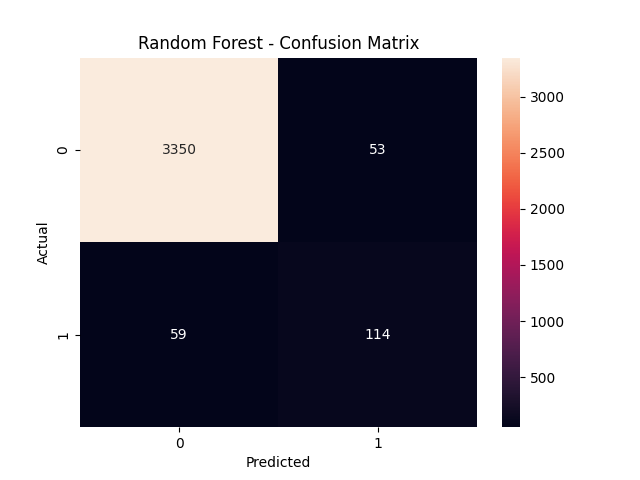
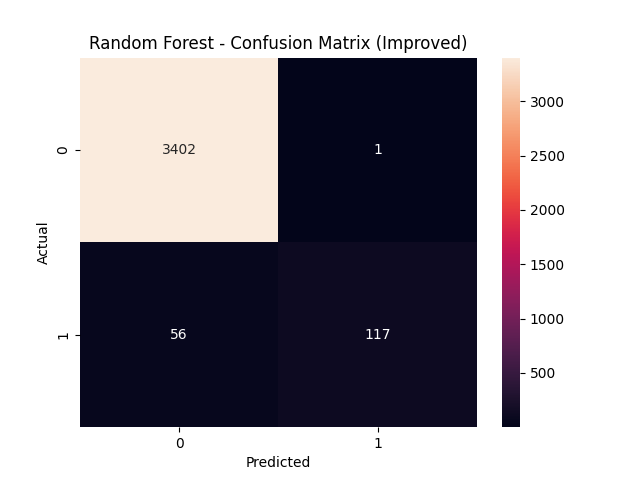
Improved fake detection using SMOTE and class balancing

diff --git a/model/train_model.py b/model/train_model.py
@@ -2,15 +2,14 @@ import matplotlib
 matplotlib.use('Agg')
 
 import pandas as pd
+import numpy as np
 import joblib
 import matplotlib.pyplot as plt
 import seaborn as sns
-import numpy as np
 
 from sklearn.model_selection import train_test_split
 from sklearn.feature_extraction.text import TfidfVectorizer
 from sklearn.ensemble import RandomForestClassifier
-from sklearn.linear_model import LogisticRegression
 from sklearn.metrics import (
     accuracy_score,
     classification_report,
@@ -22,9 +21,14 @@ from sklearn.compose import ColumnTransformer
 from sklearn.preprocessing import StandardScaler
 from sklearn.pipeline import Pipeline
 
+from imblearn.over_sampling import SMOTE
+
 from preprocess import build_text_features, add_meta_features
 
-# Load dataset
+
+# ===============================
+# LOAD DATA
+# ===============================
 df = pd.read_csv("data/raw/fake_job_postings.csv")
 
 df = build_text_features(df)
@@ -33,13 +37,21 @@ df = add_meta_features(df)
 X = df[['combined_text', 'desc_length', 'company_profile_length', 'has_salary']]
 y = df['fraudulent']
 
+# ===============================
+# TRAIN TEST SPLIT
+# ===============================
 X_train, X_test, y_train, y_test = train_test_split(
-    X, y, test_size=0.2, random_state=42, stratify=y
+    X, y,
+    test_size=0.2,
+    random_state=42,
+    stratify=y
 )
 
-# Text vectorizer
+# ===============================
+# PREPROCESSING
+# ===============================
 text_vectorizer = TfidfVectorizer(
-    max_features=15000,
+    max_features=20000,
     ngram_range=(1, 2),
     min_df=3
 )
@@ -49,66 +61,62 @@ preprocessor = ColumnTransformer([
     ('num', StandardScaler(), ['desc_length', 'company_profile_length', 'has_salary'])
 ])
 
-# ----------------------------
+# Fit transform training data
+X_train_transformed = preprocessor.fit_transform(X_train)
+X_test_transformed = preprocessor.transform(X_test)
+
+# ===============================
+# SMOTE FOR IMBALANCE
+# ===============================
+smote = SMOTE(random_state=42)
+X_resampled, y_resampled = smote.fit_resample(X_train_transformed, y_train)
+
+print("After SMOTE class distribution:")
+print(pd.Series(y_resampled).value_counts())
+
+# ===============================
 # RANDOM FOREST MODEL
-# ----------------------------
+# ===============================
 rf_model = RandomForestClassifier(
-    n_estimators=300,
-    max_depth=30,
-    class_weight='balanced',
+    n_estimators=400,
+    max_depth=35,
+    class_weight="balanced",
     random_state=42,
     n_jobs=-1
 )
 
-rf_pipeline = Pipeline([
-    ('preprocess', preprocessor),
-    ('model', rf_model)
-])
+rf_model.fit(X_resampled, y_resampled)
 
-rf_pipeline.fit(X_train, y_train)
-rf_pred = rf_pipeline.predict(X_test)
+rf_pred = rf_model.predict(X_test_transformed)
 
-print("=== RANDOM FOREST RESULTS ===")
+print("\n=== RANDOM FOREST RESULTS (IMPROVED) ===")
 print("Accuracy:", accuracy_score(y_test, rf_pred))
 print(classification_report(y_test, rf_pred))
 
-# Confusion Matrix
+# ===============================
+# CONFUSION MATRIX
+# ===============================
 cm = confusion_matrix(y_test, rf_pred)
+
 plt.figure()
 sns.heatmap(cm, annot=True, fmt='d')
-plt.title("Random Forest - Confusion Matrix")
+plt.title("Random Forest - Confusion Matrix (Improved)")
 plt.xlabel("Predicted")
 plt.ylabel("Actual")
 plt.savefig("static/confusion_matrix.png")
 plt.close()
 
-# ----------------------------
-# LOGISTIC REGRESSION MODEL
-# ----------------------------
-lr_model = LogisticRegression(max_iter=1000)
-
-lr_pipeline = Pipeline([
-    ('preprocess', preprocessor),
-    ('model', lr_model)
-])
-
-lr_pipeline.fit(X_train, y_train)
-lr_pred = lr_pipeline.predict(X_test)
-
-print("\n=== LOGISTIC REGRESSION RESULTS ===")
-print("Accuracy:", accuracy_score(y_test, lr_pred))
-print(classification_report(y_test, lr_pred))
-
-# ----------------------------
+# ===============================
 # ROC CURVE
-# ----------------------------
-rf_probs = rf_pipeline.predict_proba(X_test)[:, 1]
+# ===============================
+rf_probs = rf_model.predict_proba(X_test_transformed)[:, 1]
+
 fpr, tpr, thresholds = roc_curve(y_test, rf_probs)
 roc_auc = auc(fpr, tpr)
 
 plt.figure()
 plt.plot(fpr, tpr, label=f'Random Forest (AUC = {roc_auc:.2f})')
-plt.plot([0,1],[0,1],'--')
+plt.plot([0, 1], [0, 1], '--')
 plt.xlabel("False Positive Rate")
 plt.ylabel("True Positive Rate")
 plt.title("ROC Curve")
@@ -118,20 +126,17 @@ plt.close()
 
 print("ROC AUC Score:", roc_auc)
 
-# ----------------------------
-# FEATURE IMPORTANCE
-# ----------------------------
-feature_names = (
-    rf_pipeline.named_steps['preprocess']
-    .transformers_[0][1]
-    .get_feature_names_out()
-)
+# ===============================
+# FEATURE IMPORTANCE (FIXED)
+# ===============================
+# Get feature names from fitted preprocessor
+feature_names = preprocessor.named_transformers_['text'].get_feature_names_out()
 
 importances = rf_model.feature_importances_[:len(feature_names)]
 
 top_indices = np.argsort(importances)[-20:]
 
-plt.figure(figsize=(8,6))
+plt.figure(figsize=(8, 6))
 plt.barh(range(len(top_indices)), importances[top_indices])
 plt.yticks(range(len(top_indices)), feature_names[top_indices])
 plt.title("Top 20 Important Text Features")
@@ -139,7 +144,14 @@ plt.tight_layout()
 plt.savefig("static/feature_importance.png")
 plt.close()
 
-# Save best model (Random Forest)
-joblib.dump(rf_pipeline, "model/jobshield_model.pkl")
+# ===============================
+# SAVE PIPELINE
+# ===============================
+pipeline = Pipeline([
+    ('preprocess', preprocessor),
+    ('model', rf_model)
+])
 
-print("Model saved successfully")
+joblib.dump(pipeline, "model/jobshield_model.pkl")
+
+print("\nModel saved successfully (Improved Version)")
